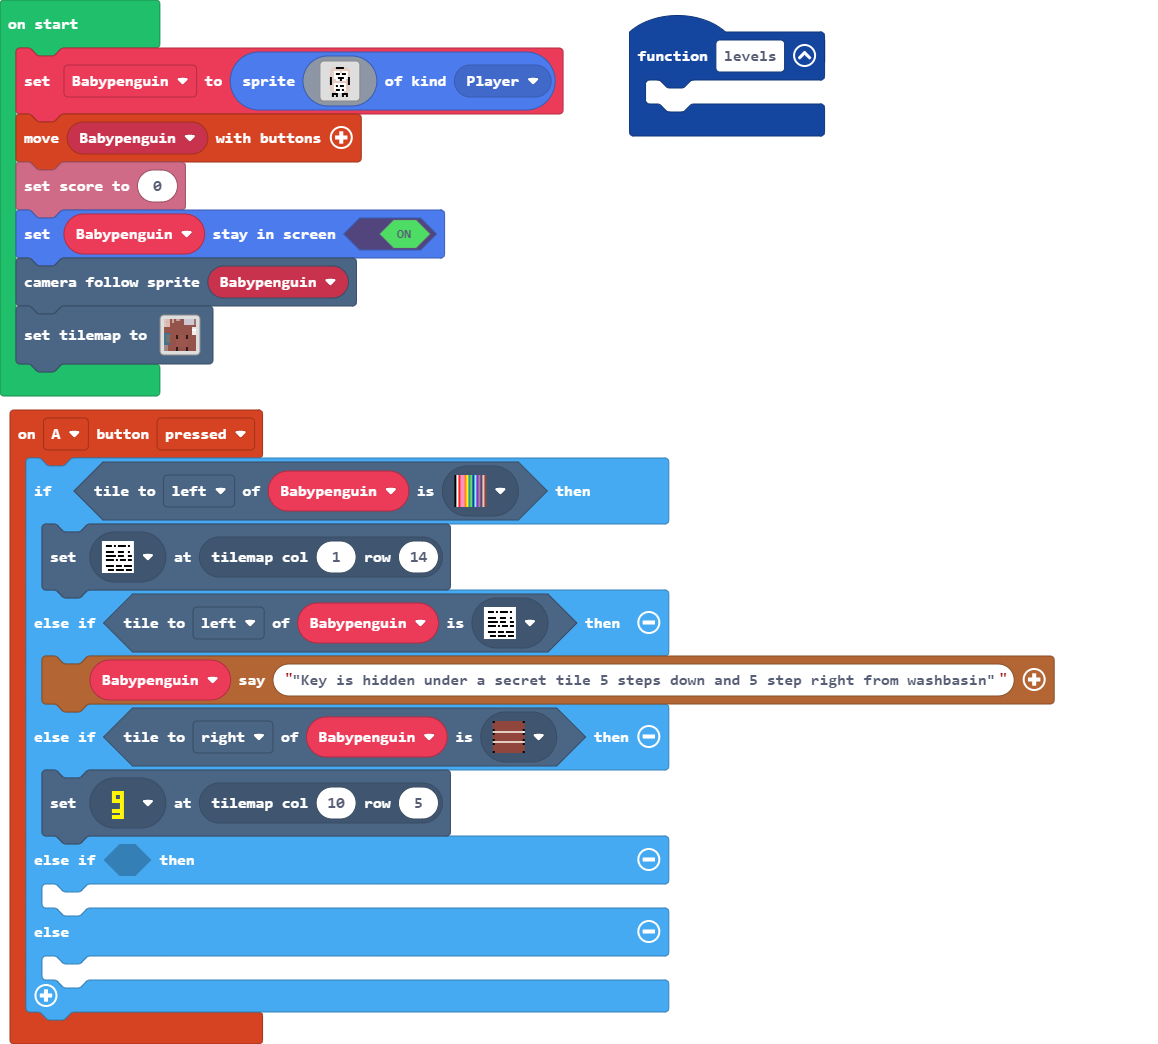
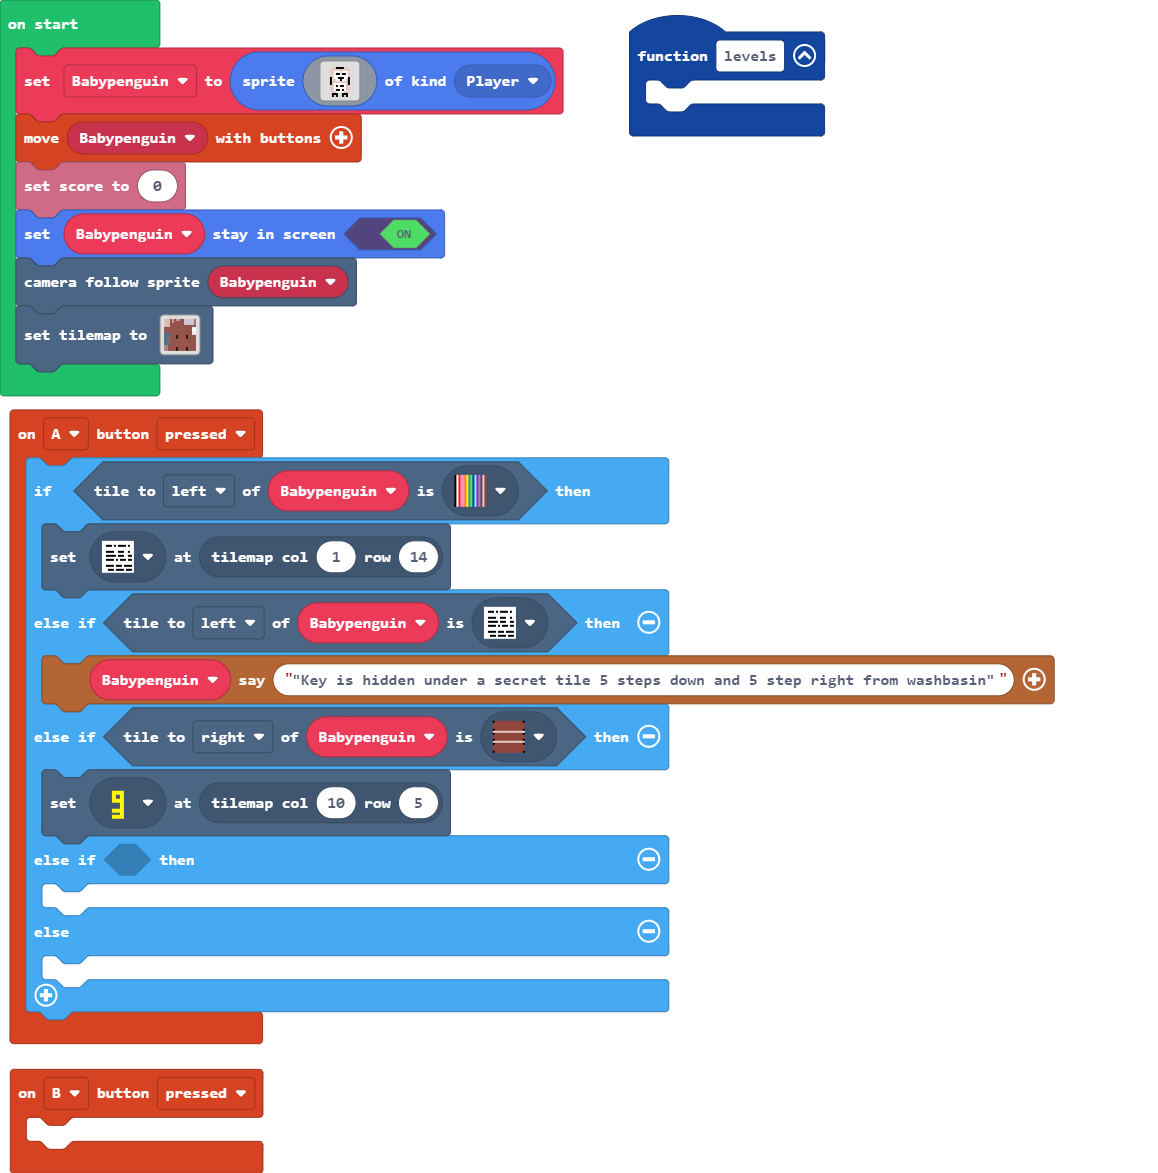
Update pxt.json, main.blocks, main.ts

diff --git a/main.ts b/main.ts
@@ -1,3 +1,6 @@
+controller.B.onEvent(ControllerButtonEvent.Pressed, function () {
+	
+})
 controller.A.onEvent(ControllerButtonEvent.Pressed, function () {
     if (Babypenguin.tileKindAt(TileDirection.Left, assets.tile`myTile32`)) {
         tiles.setTileAt(tiles.getTileLocation(1, 14), assets.tile`myTile28`)
